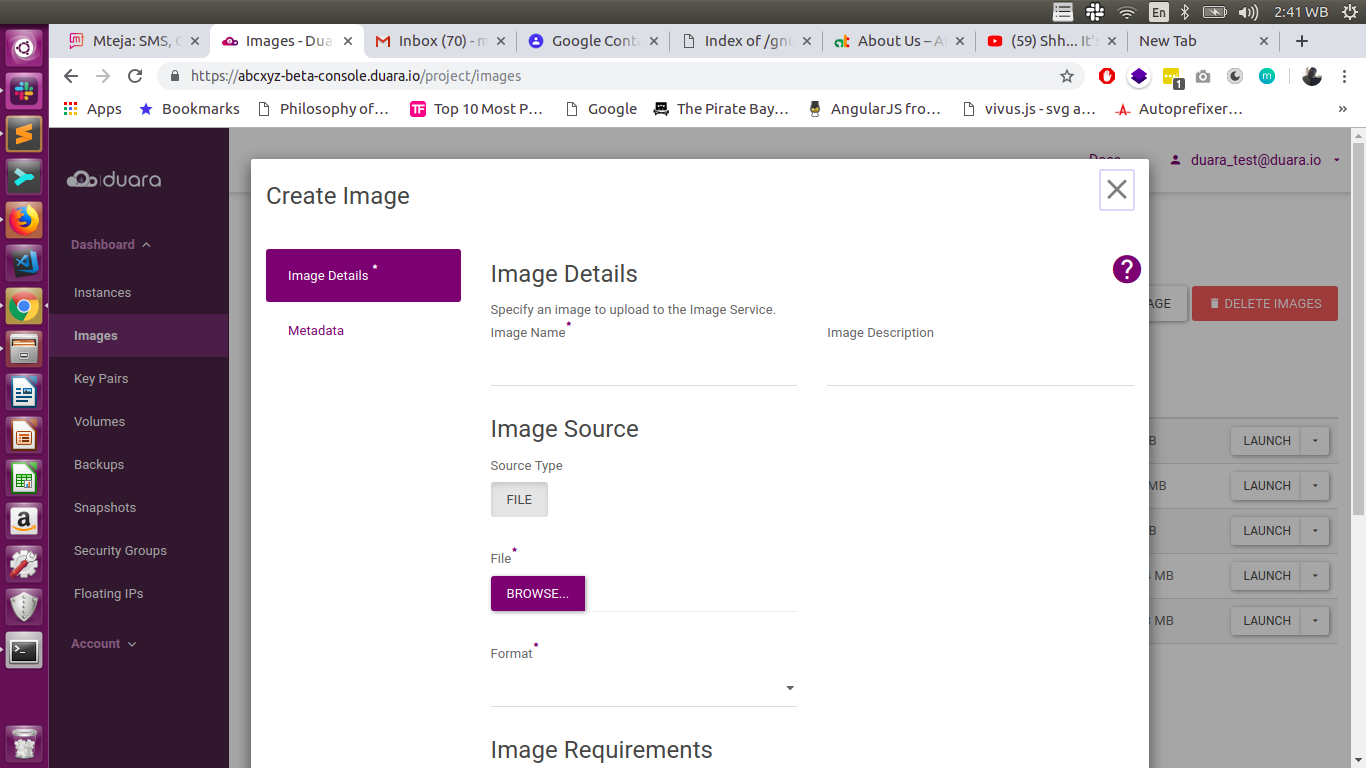
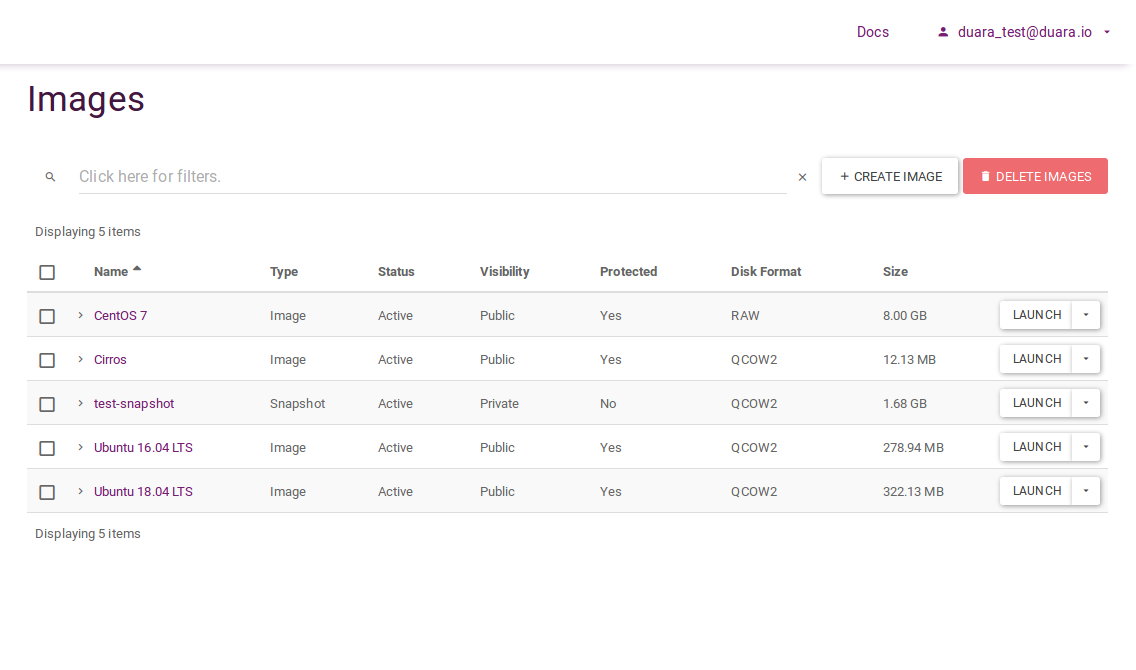
add functionality to the dashboard replica in the features page and add the respectful photos screenshots as well

diff --git a/landingpage/templates/landingpage/features.html b/landingpage/templates/landingpage/features.html
@@ -232,71 +232,70 @@
             <img class="logoimg" title="Duara Logo" alt="Duara Logo" src="/static_files/images/white logo.svg">
           </div>
           <ul>
-            <li class="side-panelgroup">
           
-                Dashboard
-          
-            </li>
-            <li class="panel">
-              <a href="#">
+            <li class="target panel active" id="instance-replica">
+            
                 Instances
-              </a>
-            </li>
-            <li class="panel">
-              <a href="#">
-                Images
-              </a>
-            </li>
-            <li class="panel">
-              <a href="#">
-                           Key Pairs
-              </a>
-            </li>
-            <li class="panel">
-              Volumes
-            </li>
-            <li class="panel">
-              Backups
-            </li>
-            <li class="panel">
-              Snapshots
-            </li>
-            <li class="panel">
-              Security Groups
-            </li>
-            <li class="panel">
-              Floating IPs
-            </li>
-            <li class="side-panelgroup">
-              Account
-            </li>
-            <li class="panel">
-              Change password
-            </li>
-            <li class="panel">
               
             </li>
+            <li class="target panel" id="image-replica">
+              
+                Images
+              
+            </li>
+            <li class="target panel" id="keypair-replica">
+              
+                           Key Pairs
+              
+            </li>
+            <li class="target panel" id="volume-replica">
+              Volumes
+            </li>
+            <li class="target panel" id="backup-replica">
+              Backups
+            </li>
+            <li class="target panel" id="snapshot-replica">
+              Snapshots
+            </li>
+            <li class="target panel" id="sg-replica">
+              Security Groups
+            </li>
+            <li class="target panel" id="fi-replica">
+              Floating IPs
+            </li>
+            
+            
           </ul>
         </aside>
-        <section class="dashboard-replica">
-          <div class="active replica instance-replica">
+        <section class="dashboard-replica trigger-target">
+          <div class=" info-active replica instance-replica">
             
           </div>
-          <div class="replica">
+          <div class="replica image-replica">
             
           </div>
-          <div class="replica">
+          <div class="replica keypair-replica">
             
           </div>
-          <div class="replica">
+          <div class="replica  volume-replica">
             
           </div>
-          <div class="replica">
+          <div class="replica backup-replica">
             
           </div>
-          <div class="replica">
+          <div class="replica snapshot-replica">
             
           </div>
+
+          <div class="replica sg-replica">
+            
+          </div>
+
+          <div class="replica fi-replica">
+            
+          </div>
+
+          
         </section>
       </div>
     </div>

diff --git a/landingpage/static/css/custom.css b/landingpage/static/css/custom.css
@@ -338,12 +338,12 @@ color: #fff;
 	border: 1px solid #eee;
 }
 aside.dashboard-panels{
-	width: 20%;
+	width: 22%;
 	height: 100%;
     border-top-left-radius: 20px;
     background-color: #31172d;
     float: left;
-    min-height: 545px;
+    min-height: 544px;
 }
 .side-logo .logoimg{
 	width: 75px;
@@ -356,26 +356,72 @@ aside.dashboard-panels{
 	position: relative;
 	width: 100%;
 }
-.dashboard-replica{
-	background-image: url(../images/dashboard.png);
-    width: 80%;
+.instance-replica{
+	background-image: url(../images/instances.png);
+   
+}
+.image-replica{
+	background-image: url(../images/launch_image.png);
+}
+.keypair-replica{
+	background-image: url(../images/key_pair.png);
+}
+.volume-replica{
+	background-image: url(../images/volume_page.png);
+}
+.backup-replica{
+	background-image: url(../images/backups.png);
+}
+.volume-replica{
+	background-image: url(../images/volumes_page.png);
+}
+.snapshot-replica{
+	background-image: url(../images/snapshot.png);
+}
+.sg-replica{
+	background-image: url(../images/secgroup.png);
+}
+.fi-replica{
+	background-image: url(../images/floatingip.png);
+}
+.fi-replica{
+	background-image: url(../images/floatingip.png);
+}
+.password-replica{
+	background-image: url(../images/password.png);
+}
+.replica{
+	display: none;
+	width: 78%;
     height: 544px;
     position: relative;
     background-size: cover;
     background-repeat: no-repeat;
-    
     float: left;
+    border-top: 1px solid #ebebebcc;
 }
 .side-panelgroup{
 	color: #c79ac4;
 	font-size: 12px;
 	font-weight: bold;
 	margin-left: -20px;
+	margin-bottom: 20px;
 }
 .panel{
-	margin-left: -20px;
-	background-color: transparent !important;
-	border-radius: 4px;
-	color: aliceblue;
-	font-size: 11px;
+	margin-left: -40px;
+background-color: transparent !important;
+border-radius: 4px;
+color: aliceblue;
+font-size: 11px;
+cursor: pointer;
+padding: 5px;
+padding-left: 20px;
+margin-bottom: 0 !important;
+padding-bottom: 10px;
+padding-top: 10px;
+}
+.panel.active, .panel:hover{
+	background-color: rgba(117, 70, 117, 0.83) !important;
+
+border-radius: 0 !important;
 }

diff --git a/landingpage/templates/landingpage/pricing.html b/landingpage/templates/landingpage/pricing.html
@@ -33,20 +33,20 @@
       <div class="col-md-12 border-shadow">
         <div class="limit-info">
           <div class="">
-            <div class="info active borderless" id="cloudcompute">
+            <div class="trigger info active borderless" id="cloudcompute">
               <h6>Virtual Machines</h6>
             </div> 
-            <div class="info  borderless" id="block">
+            <div class="info target borderless" id="block">
               <h6>Block Storage</h6>
             </div>  
-            <div class="info borderless" id="floating">
+            <div class="info target borderless" id="floating">
               <h6>Back ups and snapshot</h6>
             </div>  
 
           </div>
         </div>
 
-        <div class="target-info">
+        <div class="target-info trigger-target">
           <div class="cloudcompute info-active">
             <div class="pricing-table">
               <table class="table ">
@@ -132,11 +132,11 @@
 
         </div>
 
-        <div class="target-info">
+        <div class="target-info trigger-target">
           <div class="floating">
           </div>
         </div>
-        <div class="target-info">
+        <div class="target-info trigger-target">
           <div class="block">
             <h2>Block Storage</h2>
             We offer very friendly charges that are reliable and transparent, all based on your usage.

diff --git a/landingpage/static/js/scripts.js b/landingpage/static/js/scripts.js
@@ -80,16 +80,20 @@ $(function(){
    /*-------------------------------------------------------------------------*
      *                   03. Pricing section tabbable area                          *
      *-------------------------------------------------------------------------*/
-  $('.info').click(
-    function(){
+  $('.target').click(
+    function(e){
+      e.preventDefault();
+
       target = $(this).attr('id');
       console.log(target);
-      $('.target-info> .info-active').removeClass('info-active');
+      $('.trigger-target> .info-active').removeClass('info-active');
       $('.'+target).addClass('info-active');
-      $('.info').removeClass('active');
+      $('.target').removeClass('active');
       $(this).addClass('active');
     }
   );
+
+
 
          /*-------------------------------------------------------------------------*
      *           Helps in hiding any event triggered forms or div (signup or login/since been depricated)
